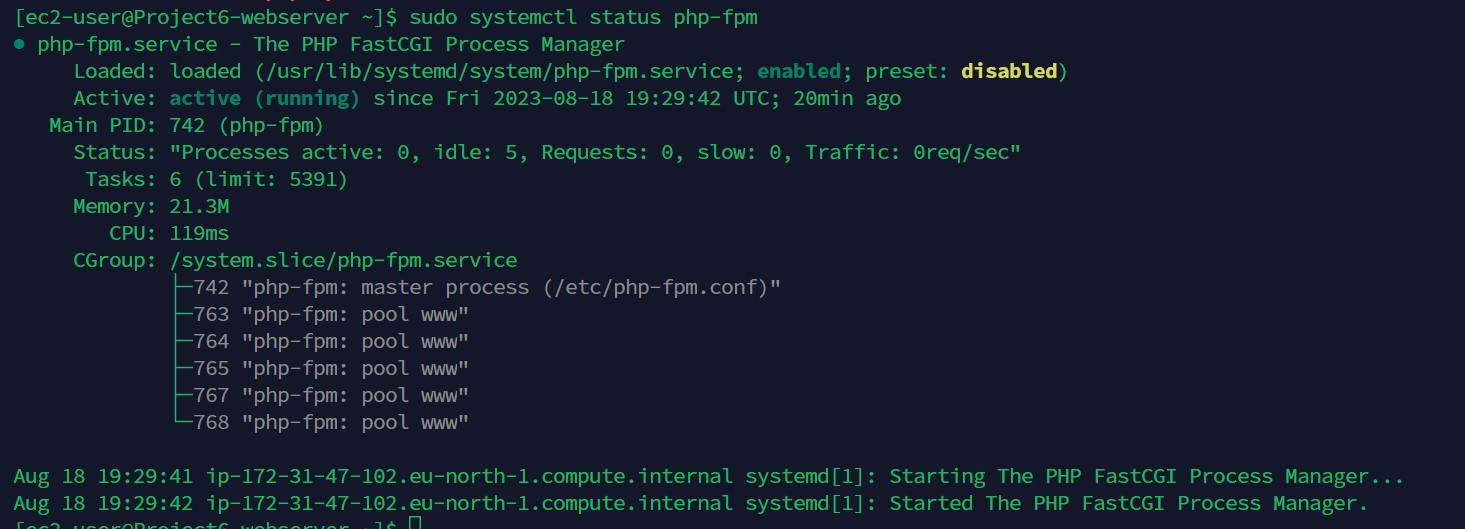
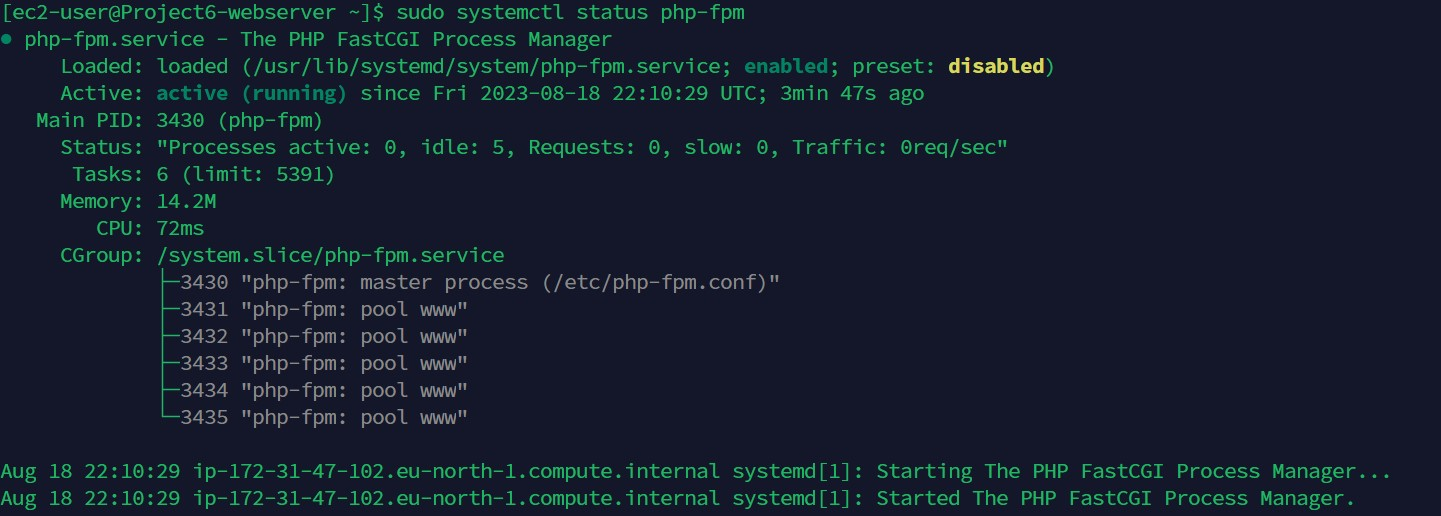
make changes

Changed region(s): [[0.0, 0.0, 0.7495, 0.8372], [0.0, 0.8682, 0.9681, 1.0]]

diff --git a/project6.md b/project6.md
@@ -332,11 +332,15 @@
 
 `sudo yum module reset php`
 
-`sudo yum module enable php:remi-7.4`
+![Module Reset PHP](./images/module-reset-php.jpg)
 
-![Module Reset and Enable PHP](./images/module-reset-php.jpg)
+`sudo yum module enable php:remi-8.1`
+
+![Module Enable PHP](./images/module-enable-php.jpg)
 
 `sudo yum install php php-opcache php-gd php-curl php-mysqlnd`
+
+![PHP Modules](./images/php-modules.jpg)
 
 `sudo systemctl start php-fpm`
 
@@ -347,6 +351,12 @@
 `sudo systemctl status php-fpm`
 
 ![PHP FPM Status](./images/php-fpm-status.jpg)
+
+5. Restart Apache
+
+`sudo systemctl restart httpd`
+
+
 
 
 
